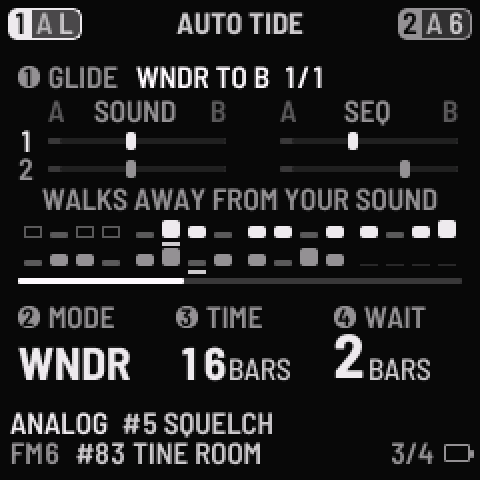
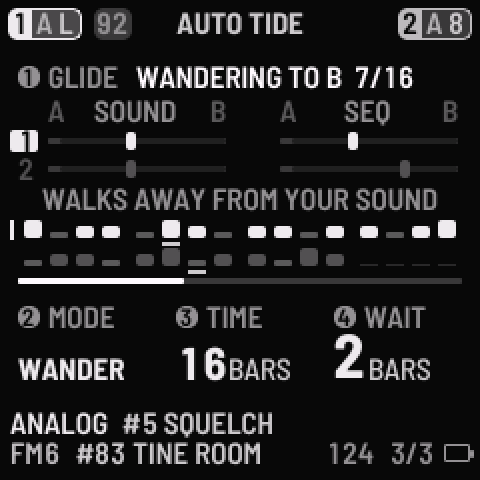
README and landing screenshots: AUTO TIDE with both parts and the part tag, MORPH as the wave page (GREY renders of tide_both_glide and mv_both64_play, 2x)

diff --git a/felucca-base/web/landing.html b/felucca-base/web/landing.html
@@ -72,7 +72,7 @@
       <p>The glide runs from A to B and back, never quite the same way twice. It is made for playing the FM-1 as a background: nothing has to be managed live, and a hand on the knob can take over at any time. The pattern can glide with the sound.</p>
       <div class="shots">
         <figure class="shot">
-          <img src="img/auto-tide-both-parts.png" width="240" height="240" alt="The AUTO TIDE page of the FM-1 with both parts gliding: WNDR to B, the sound and sequence faders of parts 1 and 2 in two columns, 16 bars, wait 2 bars." loading="lazy">
+          <img src="img/auto-tide-both-parts.png" width="240" height="240" alt="The AUTO TIDE page of the FM-1 with both parts wandering to B: the sound and sequence faders of parts 1 and 2, part 1 selected, 16 bars, wait 2 bars." loading="lazy">
           <figcaption><b>AUTO TIDE</b>The glide's state on knob 1's line, with both parts. MODE, TIME and WAIT are on knobs 2 to 4.</figcaption>
         </figure>
         <figure class="shot">
@@ -80,8 +80,8 @@
           <figcaption><b>TIDE SETTINGS</b>What the tide moves and how a new End B is made.</figcaption>
         </figure>
         <figure class="shot">
-          <img src="img/morph-gliding.png" width="240" height="240" alt="The MORPH page while a tide plays, with the fader at 64." loading="lazy">
-          <figcaption><b>MORPH, mid-glide</b>DUELL's own MORPH page follows the glide, so you see where the sound is between A and B.</figcaption>
+          <img src="img/morph-gliding.png" width="240" height="240" alt="The MORPH page with the fader at 64: each part's sound drawn as waves, part 1 above and part 2 below." loading="lazy">
+          <figcaption><b>MORPH</b>Each part's real sound as waves, like an oscilloscope: a held note stands still, a chord beats.</figcaption>
         </figure>
       </div>
       <p class="small">Screenshots from the <a href="emu/">web emulator</a>.</p>

diff --git a/README.md b/README.md
@@ -18,7 +18,7 @@ It is made for playing the FM-1 as a **background**: set a tide going, then play
 
 | AUTO TIDE | TIDE SETTINGS | MORPH, mid-glide |
 |:---:|:---:|:---:|
-| <img src="docs/tide/auto-tide-both-parts.png" width="260" alt="AUTO TIDE page with both parts gliding: WNDR to B, the SOUND and SEQ faders of parts 1 and 2 in two columns, both parts' steps, MODE WNDR, TIME 16 bars, WAIT 2 bars"> | <img src="docs/tide/morph-settings.png" width="260" alt="TIDE SETTINGS page: STYLE, TARGET SND+SEQ, VARY BARS EVERY 4TH, ROLL MUSIC, ROLL ARP, ROLL PITCH; the rest of the rows scroll below"> | <img src="docs/tide/morph-gliding.png" width="260" alt="MORPH page while a tide plays (an earlier build, with UNDO on knob 3, gone since 1.0.0-b5): the fader at 64, ROLL and AMOUNT 40 %"> |
+| <img src="docs/tide/auto-tide-both-parts.png" width="260" alt="AUTO TIDE page, both parts wandering to B: the SOUND and SEQ faders of parts 1 and 2, part 1 selected with its number in a filled tag, both parts' steps, MODE WANDER, TIME 16 bars, WAIT 2 bars"> | <img src="docs/tide/morph-settings.png" width="260" alt="TIDE SETTINGS page: STYLE, TARGET SND+SEQ, VARY BARS EVERY 4TH, ROLL MUSIC, ROLL ARP, ROLL PITCH; the rest of the rows scroll below"> | <img src="docs/tide/morph-gliding.png" width="260" alt="MORPH page: each part's output drawn as waves, part 1 above (selected, bright, its number in a filled tag) and part 2 below (dimmed); MORPH 64, ROLL and AMOUNT 40 %"> |
 | The glide, both parts, with their steps. | STYLE on top, then how the tide behaves. | DUELL's MORPH page follows the glide. |
 
 *Screens rendered from the firmware's own drawing code; try them live in the [web emulator](https://pssdrnk-cmyk.github.io/DUELL-TIDE/emu/).*
